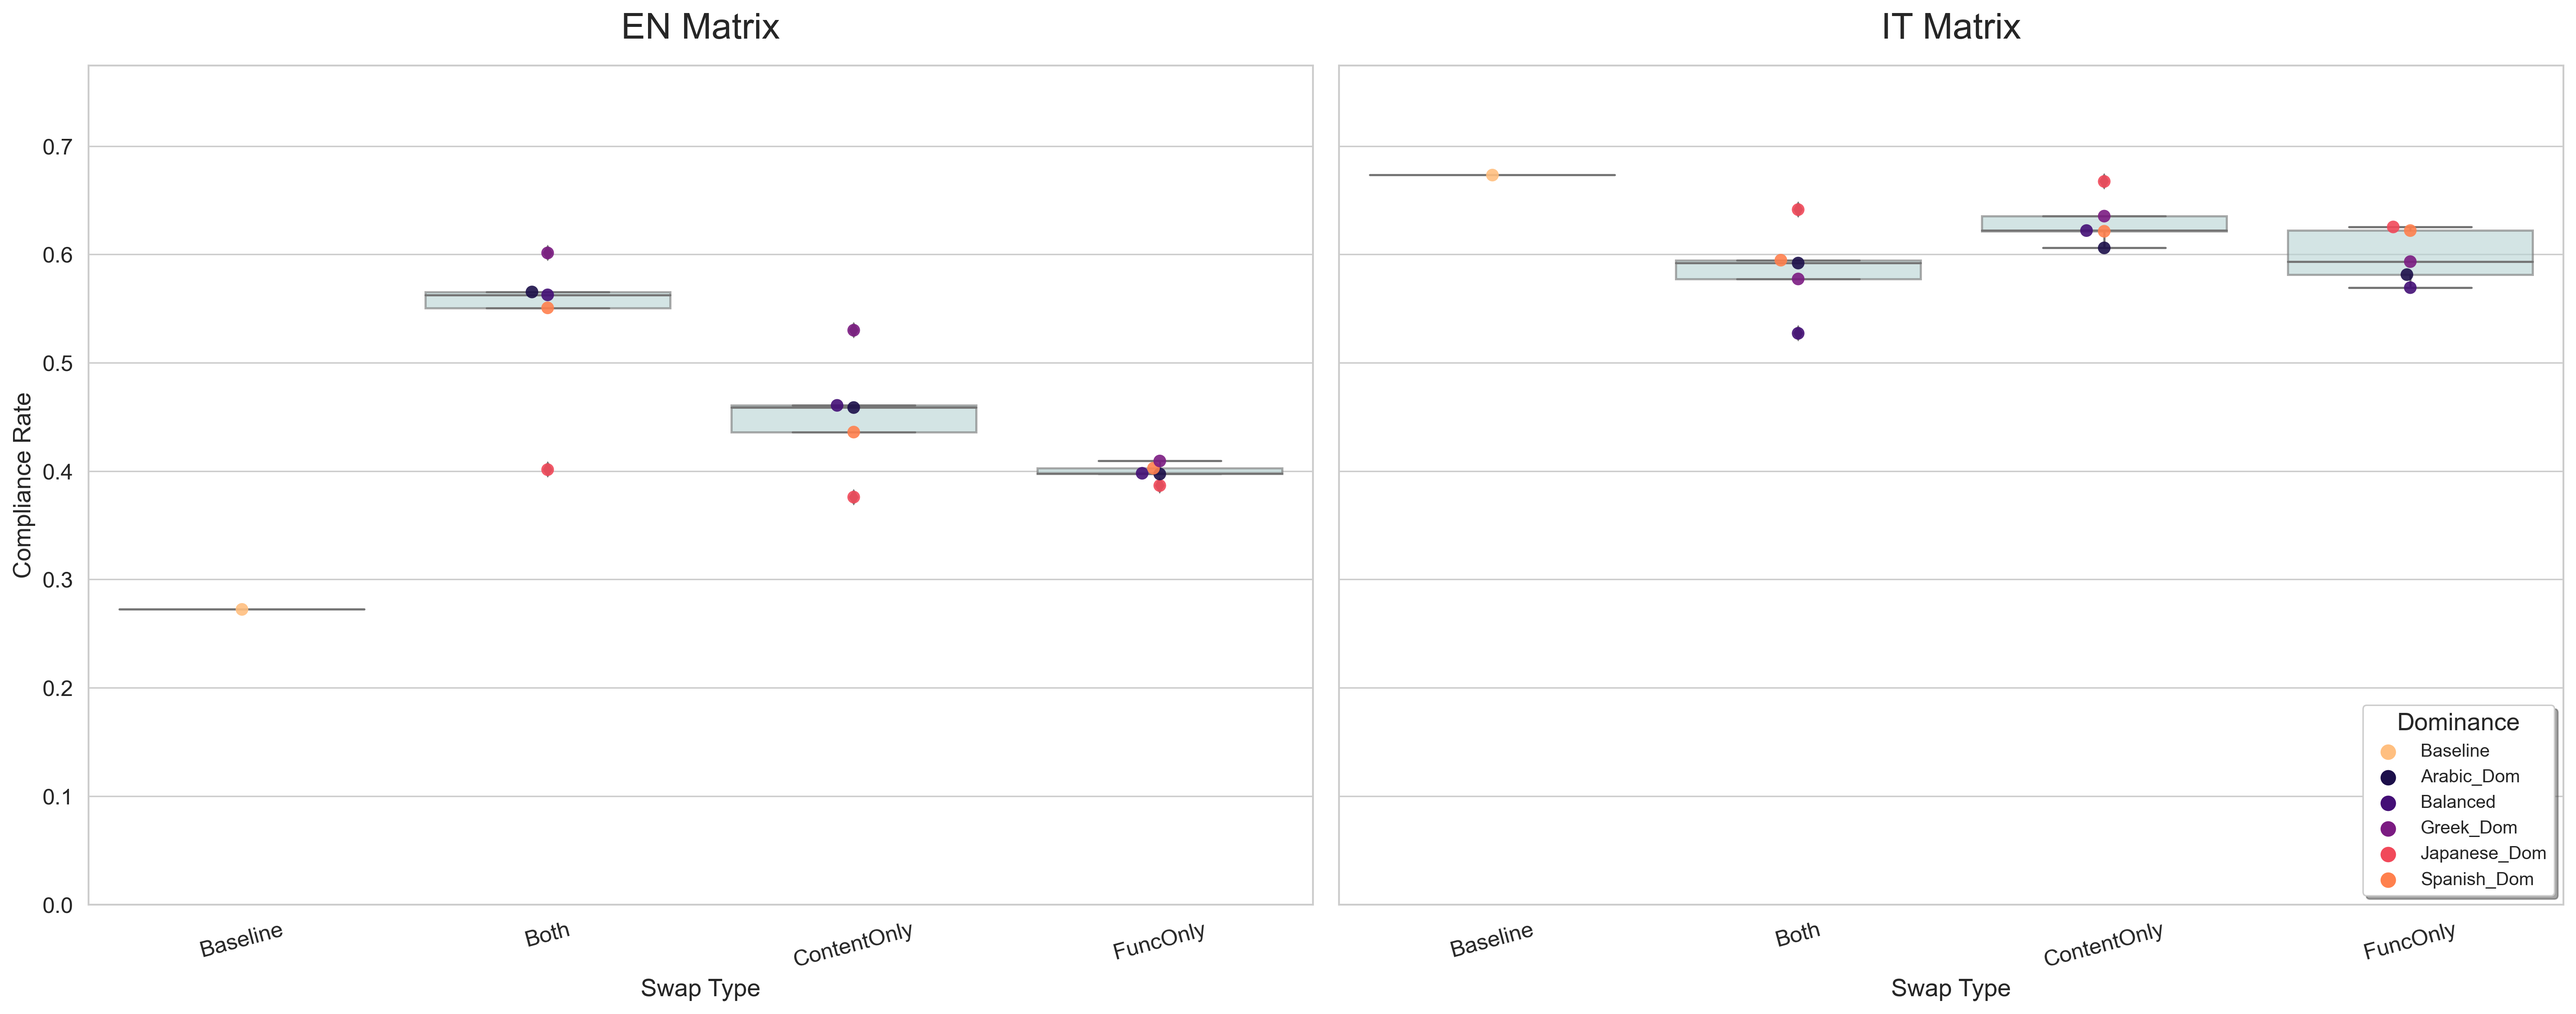
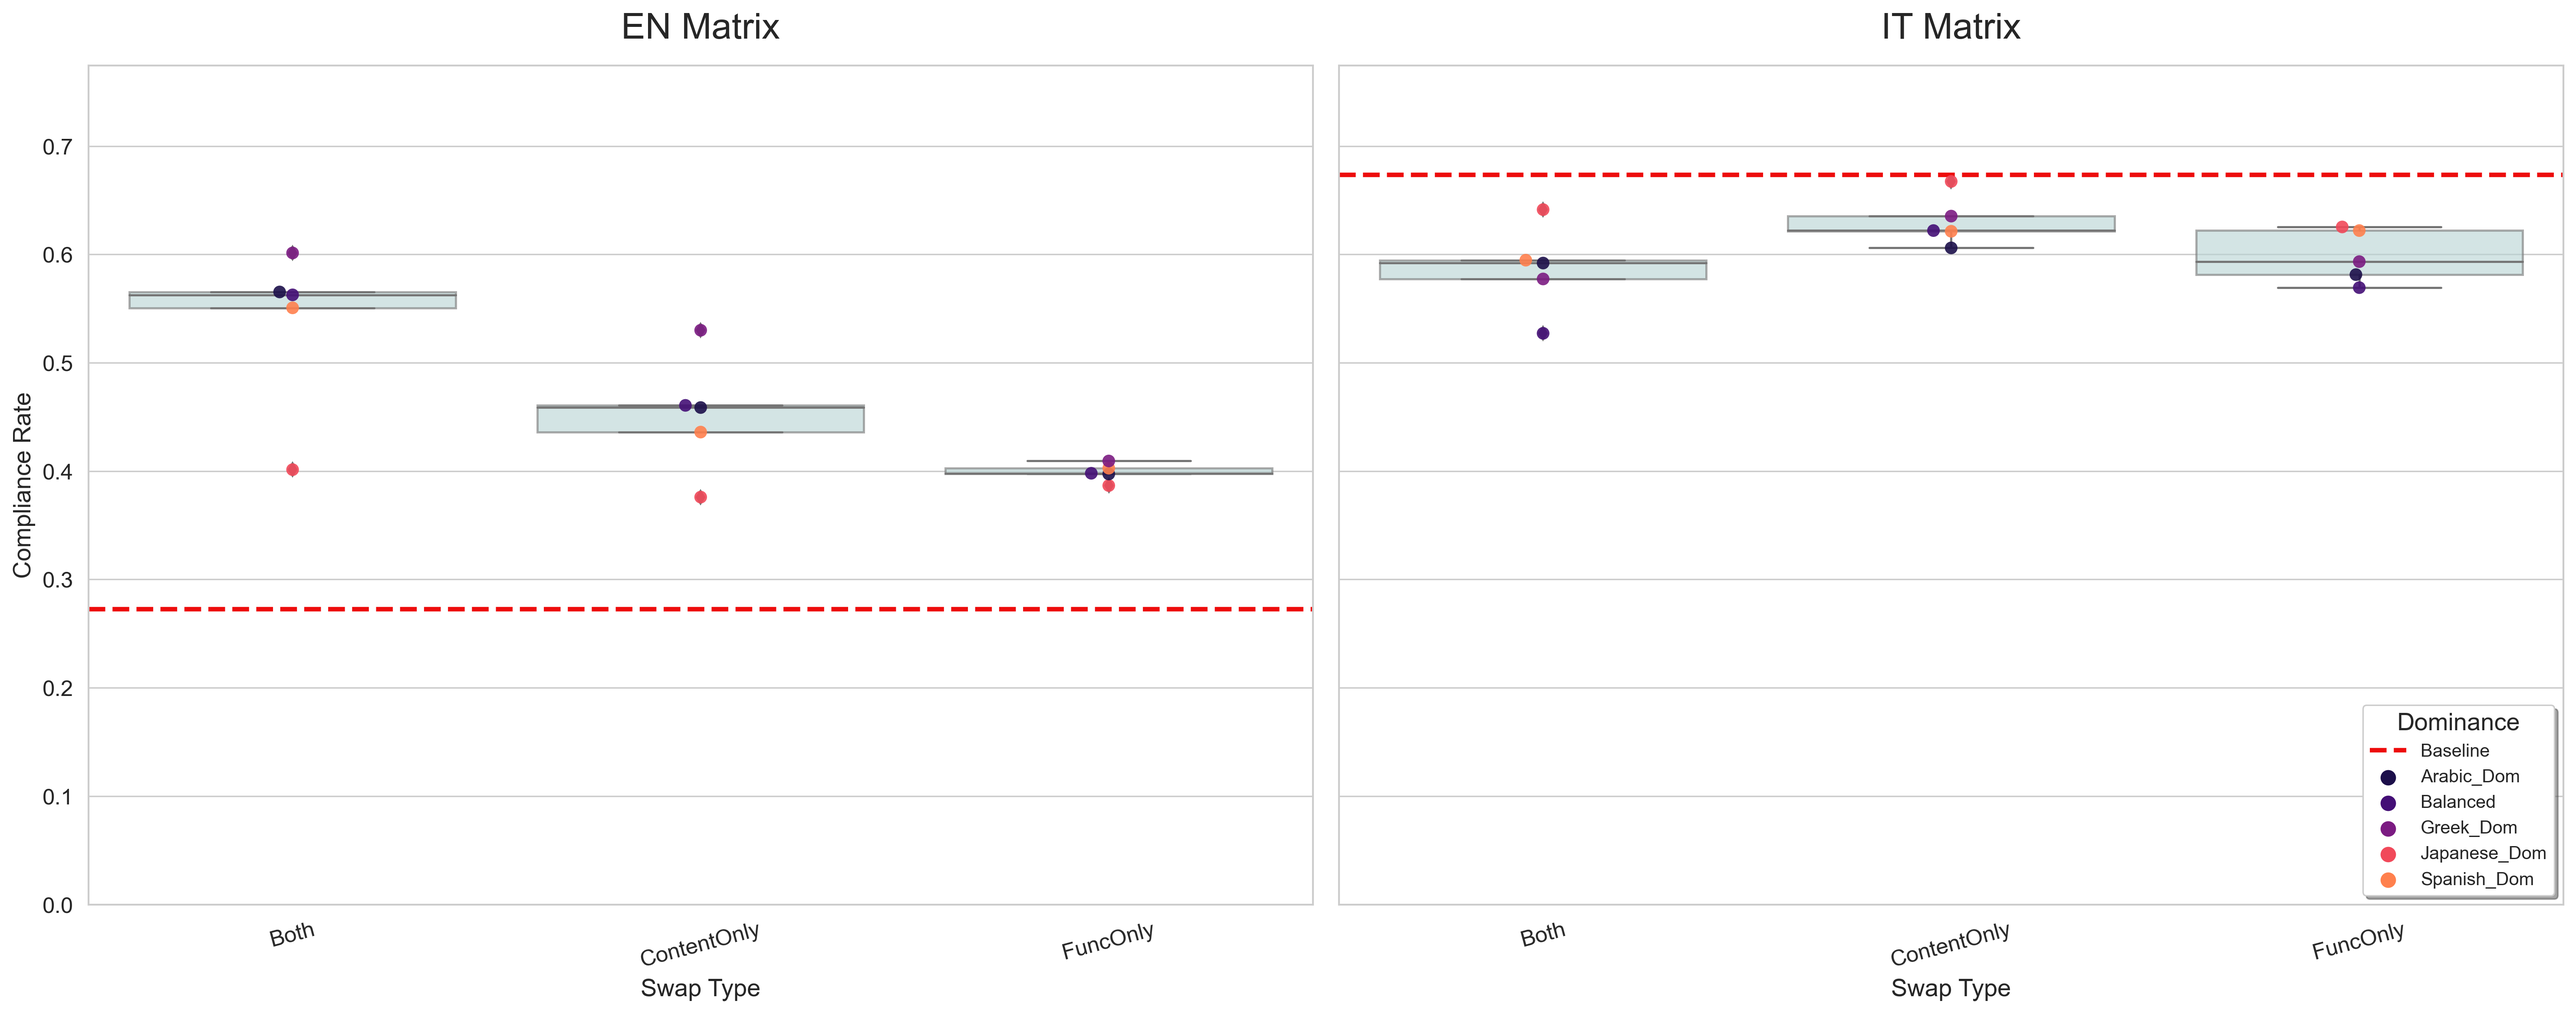
update resulrs

diff --git a/generate_latex_table.py b/generate_latex_table.py
@@ -17,59 +17,105 @@ def generate_latex_table(metrics_summary_path='experiment_results/metrics_summar
     if 'swap_type' not in df_baseline.columns:
         df_baseline['swap_type'] = 'Baseline'
 
-    metrics = ['Pct_Confusion', 'Pct_Refusal', 'Pct_Rebuttal', 'Pct_Benign_Compliance', 'Pct_Malicious_Compliance']
+    metrics = ['Pct_Refusal', 'Pct_Benign_Compliance', 'Pct_Malicious_Compliance', 'Pct_Confusion', 'Pct_Rebuttal', 'ASR_both', 'ASR_resp']
 
     # Combine dataframes
     df_combined = pd.concat([df_baseline, df], ignore_index=True)
 
-    # Group by matrix_language and swap_type, calculate mean and standard deviation
-    df_agg = df_combined.groupby(['matrix_language', 'swap_type'])[metrics].agg(['mean', 'std'])
+    # Group by matrix_language and swap_type, calculate mean and std
+    df_agg = df_combined.groupby(['matrix_language', 'swap_type'])[metrics].agg(['mean', 'std']) * 100
+
+    languages = ['En', 'It']
+    swap_order = ['Baseline', 'Both', 'ContentOnly', 'FuncOnly']
+    swap_headers = ['Baseline', 'Both', 'Content', 'Function']
 
     lines = []
     lines.append(r'\begin{table}[h]')
     lines.append(r'\centering')
     lines.append(r'\resizebox{\textwidth}{!}{')
-    lines.append(r'\begin{tabular}{llccccc}')
+    lines.append(r'\begin{tabular}{l' + 'c'*4 + ' ' + 'c'*4 + '}')
     lines.append(r'\toprule')
-    lines.append(r'\textbf{Matrix} & \textbf{Swap Type} & \textbf{Confusion} & \textbf{Refusal} & \textbf{Rebuttal} & \textbf{Benign Comp.} & \textbf{Malicious Comp.} \\')
+    lines.append(r' & \multicolumn{4}{c}{\textbf{English Matrix}} & \multicolumn{4}{c}{\textbf{Italian Matrix}} \\')
+    lines.append(r'\cmidrule(lr){2-5} \cmidrule(lr){6-9}')
+    lines.append(r' & ' + ' & '.join(swap_headers) + ' & ' + ' & '.join(swap_headers) + r' \\')
     lines.append(r'\midrule')
+    lines.append(r'\multicolumn{9}{l}{\textit{Behavioral decomposition (\%; rows sum to $\approx$ 100 per column)}} \\')
 
-    for lang in ['En', 'It']:
-        if lang not in df_agg.index.get_level_values('matrix_language'):
+    row_metrics = [
+        ('Refusal', 'Pct_Refusal', 0),
+        ('Benign Compliance', 'Pct_Benign_Compliance', 0),
+        ('Malicious Compliance', 'Pct_Malicious_Compliance', 0),
+        ('Confusion', 'Pct_Confusion', 0),
+        ('Rebuttal', 'Pct_Rebuttal', 0),
+        ('midrule', '', 0),
+        (r'\multicolumn{9}{l}{\textit{Safety judge metrics (\%)}}', 'header', 0),
+        (r'$\text{ASR}_{\text{both}}$', 'ASR_both', 0),
+        (r'$\text{ASR}_{\text{resp}}$', 'ASR_resp', 1)
+    ]
+
+    for label, metric_key, decimals in row_metrics:
+        if metric_key == '':
+            lines.append(r'\midrule')
             continue
+        elif metric_key == 'header':
+            lines.append(label + r' \\')
+            continue
+
+        row_str = label
         
-        lang_df = df_agg.xs(lang, level='matrix_language')
-        lang_print = 'English' if lang == 'En' else 'Italian'
-        
-        for i, swap in enumerate(['Baseline', 'ContentOnly', 'FuncOnly', 'Both']):
-            swap_lookup = swap
-            # Handle potential naming discrepancies between script generated names and CSV names
-            if swap not in lang_df.index:
-                if swap == 'ContentOnly' and 'Content_only' in lang_df.index: swap_lookup = 'Content_only'
-                elif swap == 'ContentOnly' and 'content_only' in lang_df.index: swap_lookup = 'content_only'
-                elif swap == 'FuncOnly' and 'Func_only' in lang_df.index: swap_lookup = 'Func_only'
-                elif swap == 'FuncOnly' and 'Functional_only' in lang_df.index: swap_lookup = 'Functional_only'
-                elif swap == 'Both' and 'both' in lang_df.index: swap_lookup = 'both'
-                else: continue
+        for lang in languages:
+            if lang not in df_agg.index.get_level_values('matrix_language'):
+                row_str += ' & ' * 4
+                continue
                 
-            row_str = (lang_print if i==0 else '') + ' & ' + swap.replace('Only', ' Only')
-            for m in metrics:
-                mean_val = lang_df.loc[swap_lookup, (m, 'mean')] * 100
-                
-                # If standard deviation is missing (like for single baseline trial runs), set it to 0.0
-                std_val = lang_df.loc[swap_lookup, (m, 'std')] * 100
-                if pd.isna(std_val): 
-                    std_val = 0.0
+            lang_df = df_agg.xs(lang, level='matrix_language')
+            
+            vals = []
+            stds = []
+            for swap in swap_order:
+                swap_lookup = swap
+                if swap not in lang_df.index:
+                    if swap == 'ContentOnly' and 'Content_only' in lang_df.index: swap_lookup = 'Content_only'
+                    elif swap == 'ContentOnly' and 'content_only' in lang_df.index: swap_lookup = 'content_only'
+                    elif swap == 'FuncOnly' and 'Func_only' in lang_df.index: swap_lookup = 'Func_only'
+                    elif swap == 'FuncOnly' and 'Functional_only' in lang_df.index: swap_lookup = 'Functional_only'
+                    elif swap == 'Both' and 'both' in lang_df.index: swap_lookup = 'both'
                     
-                row_str += f' & {mean_val:.1f}\\% $\\pm$ {std_val:.1f}\\%'
-            lines.append(row_str + r' \\')
-        lines.append(r'\midrule')
+                if swap_lookup in lang_df.index:
+                    vals.append(lang_df.loc[swap_lookup, (metric_key, 'mean')])
+                    stds.append(lang_df.loc[swap_lookup, (metric_key, 'std')])
+                else:
+                    vals.append(-1)
+                    stds.append(-1)
+                    
+            max_val = max(vals)
+            
+            for val, std in zip(vals, stds):
+                if val == -1:
+                    row_str += ' & -'
+                else:
+                    if pd.isna(std): std = 0.0
+                    
+                    is_max = (val == max_val)
+                    if decimals == 0:
+                        val_str = f"{val:.0f}"
+                        std_str = f"{std:.0f}"
+                    else:
+                        val_str = f"{val:.1f}"
+                        std_str = f"{std:.1f}"
+                        
+                    if is_max:
+                        row_str += f' & \\textbf{{{val_str}}} $\\pm$ {std_str}'
+                    else:
+                        row_str += f' & {val_str} $\\pm$ {std_str}'
+                        
+        lines.append(row_str + r' \\')
 
     lines.append(r'\bottomrule')
     lines.append(r'\end{tabular}')
     lines.append(r'}')
-    lines.append(r'\caption{Average Response Class compositions and standard deviations (\%) across configurations.}')
-    lines.append(r'\label{tab:response_classes_stats}')
+    lines.append(r'\caption{Average Response Class compositions and ASR Rates (\%) across configurations.}')
+    lines.append(r'\label{tab:response_classes_stats_swapped}')
     lines.append(r'\end{table}')
     
     table_str = '\n'.join(lines)

diff --git a/lib/visualize_config_variance.py b/lib/visualize_config_variance.py
@@ -41,7 +41,7 @@ def visualize_variance(csv_path='experiment_results/metrics_summary.csv',
         'Greek_Dom': "#7B1B82",    # Purple/magenta
         'Japanese_Dom': "#F1495A", # Bright red
         'Spanish_Dom': "#FF804D",  # Vibrant orange
-        'Baseline': "#FFBF80"      # Light peach/orange
+        'Baseline': "#ed0c0c"      # Light peach/orange
     }
 
     # If any dominance strategies are missing in the map, fill with magma
@@ -79,16 +79,23 @@ def visualize_variance(csv_path='experiment_results/metrics_summary.csv',
                 axes[i].text(0.5, 0.5, f'No data for {lang}', ha='center')
                 continue
             
-            order = custom_sort(df_lang['swap_type'].unique())
+            df_baseline = df_lang[df_lang['swap_type'] == 'Baseline']
+            df_lang_plot = df_lang[df_lang['swap_type'] != 'Baseline']
+            
+            order = custom_sort(df_lang_plot['swap_type'].unique())
             
             # Boxplot with reference styling (light-gray/greenish fills)
-            sns.boxplot(data=df_lang, x='swap_type', y=metric, order=order, 
+            sns.boxplot(data=df_lang_plot, x='swap_type', y=metric, order=order, 
                         ax=axes[i], color="#B2D8D8", boxprops=dict(alpha=0.6))
             
             # Swarmplot with beauty: colored by dominance using the manual palette
-            sns.swarmplot(data=df_lang, x='swap_type', y=metric, hue='dominance', 
-                          hue_order=dom_strategies, palette=color_palette, 
+            sns.swarmplot(data=df_lang_plot, x='swap_type', y=metric, hue='dominance', 
+                          hue_order=[s for s in dom_strategies if s != 'Baseline'], palette=color_palette, 
                           order=order, ax=axes[i], size=7, alpha=0.9, dodge=False)
+            
+            if not df_baseline.empty:
+                baseline_val = df_baseline[metric].mean()
+                axes[i].axhline(baseline_val, color=color_palette.get('Baseline', '#FFBF80'), linestyle='--', linewidth=2.5, label='Baseline')
             
             axes[i].set_title(f'{lang} Matrix', fontsize=20, pad=15)
             axes[i].set_ylim(0, y_max)
@@ -109,6 +116,51 @@ def visualize_variance(csv_path='experiment_results/metrics_summary.csv',
         # plt.suptitle(f'{m_label} Distribution Across All Configurations', fontsize=24, y=1.05)
         plt.tight_layout()
         plt.savefig(os.path.join(output_dir, f'{metric}_consolidated_spread.png'), dpi=300, bbox_inches='tight')
+        plt.close()
+
+        # 1.5 Consolidated Bar Plot with Dominance
+        fig, axes = plt.subplots(1, 2, figsize=(20, 8), sharey=True)
+        handles_bar, labels_bar = [], []
+        
+        for i, lang in enumerate(languages):
+            df_lang = df[df['matrix_language'] == lang]
+            if df_lang.empty:
+                axes[i].text(0.5, 0.5, f'No data for {lang}', ha='center')
+                continue
+            
+            df_baseline = df_lang[df_lang['swap_type'] == 'Baseline']
+            df_lang_plot = df_lang[df_lang['swap_type'] != 'Baseline']
+            
+            order = custom_sort(df_lang_plot['swap_type'].unique())
+            
+            sns.barplot(data=df_lang_plot, x='swap_type', y=metric, hue='dominance',
+                        hue_order=[s for s in dom_strategies if s != 'Baseline'],
+                        palette=color_palette, order=order, ax=axes[i], alpha=0.85, ci=95, capsize=0.05)
+            
+            if not df_baseline.empty:
+                baseline_val = df_baseline[metric].mean()
+                axes[i].axhline(baseline_val, color=color_palette.get('Baseline', '#FFBF80'), linestyle='--', linewidth=2.5, label='Baseline')
+            
+            axes[i].set_title(f'{lang} Matrix', fontsize=20, pad=15)
+            axes[i].set_ylim(0, y_max)
+            axes[i].set_ylabel(m_label if i == 0 else "")
+            axes[i].set_xlabel("Swap Type")
+            axes[i].tick_params(axis='x', rotation=15)
+            
+            h, l = axes[i].get_legend_handles_labels()
+            if h:
+                # Ensure Baseline is only in the legend if we added its handle explicitly
+                # Wait, axes[i].axhline returns a Line2D which doesn't get automatically added to the handles from sns if custom, but since we set label='Baseline', it might.
+                handles_bar, labels_bar = h, l
+            axes[i].get_legend().remove()
+
+        if handles_bar:
+            # Reorder legend to put Baseline at the end if it's there
+            axes[1].legend(handles_bar, labels_bar, title="Dominance Strategy", loc='upper right', 
+                           frameon=True, shadow=True, fontsize=10)
+
+        plt.tight_layout()
+        plt.savefig(os.path.join(output_dir, f'{metric}_consolidated_dominance_bars.png'), dpi=300, bbox_inches='tight')
         plt.close()
 
         # 2. Consolidated Interaction Plot
